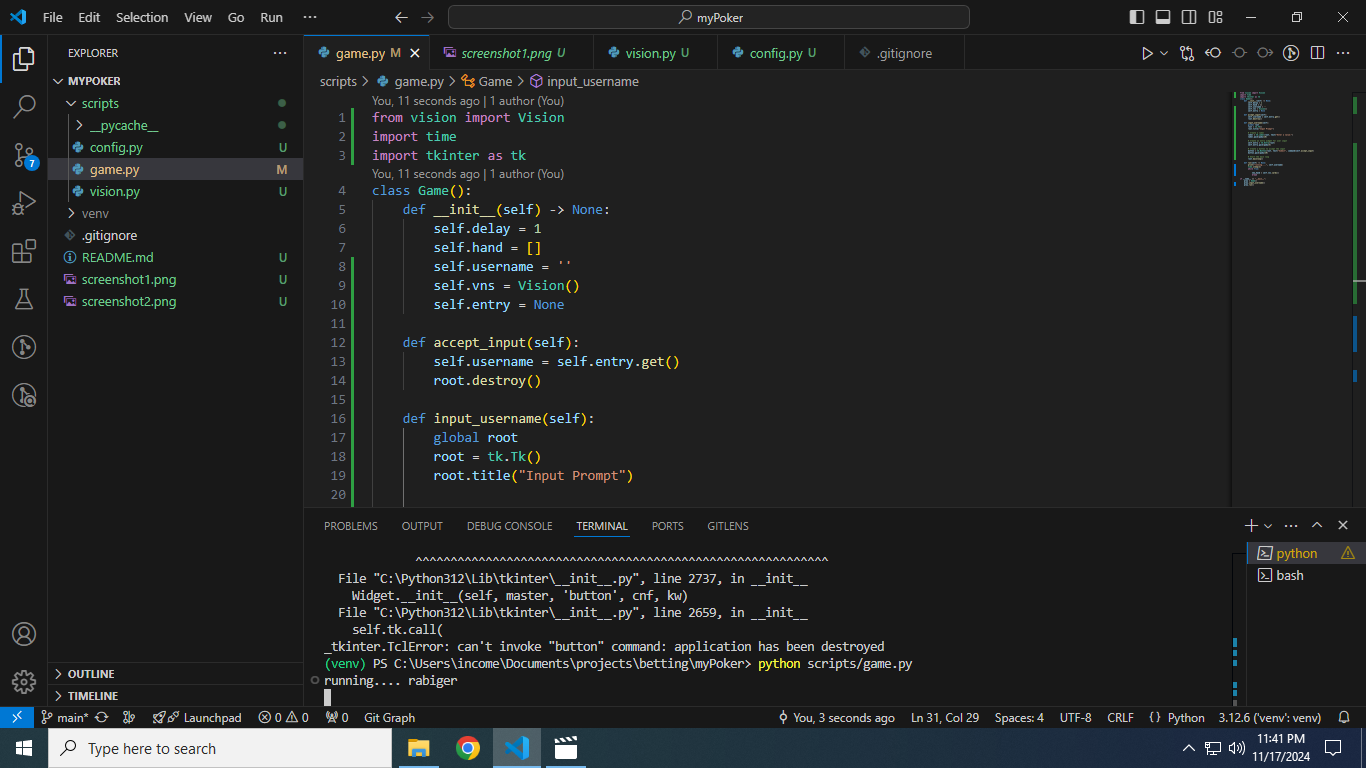
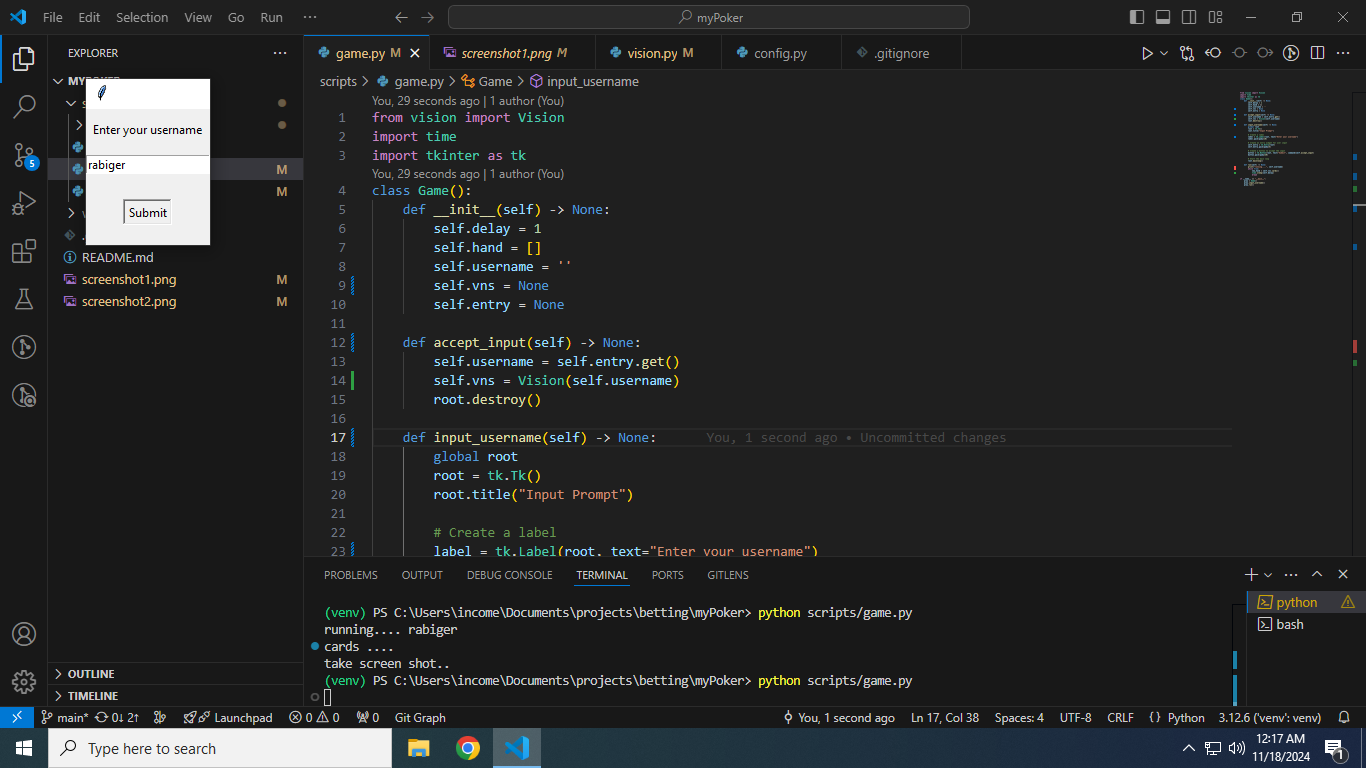
Pass username to the Vision class constructor

diff --git a/scripts/game.py b/scripts/game.py
@@ -6,20 +6,21 @@ class Game():
         self.delay = 1
         self.hand = []
         self.username = ''
-        self.vns = Vision()
+        self.vns = None
         self.entry = None
 
-    def accept_input(self):
+    def accept_input(self) -> None:
         self.username = self.entry.get()
+        self.vns = Vision(self.username)
         root.destroy()
 
-    def input_username(self):
+    def input_username(self) -> None:
         global root
         root = tk.Tk()
         root.title("Input Prompt")
 
         # Create a label
-        label = tk.Label(root, text="Enter a value:")
+        label = tk.Label(root, text="Enter your username")
         label.pack(pady=10)
 
         # Create an entry widget for user input
@@ -35,10 +36,9 @@ class Game():
 
     def run(self) -> None:
         print("running....", self.username)
-        time.sleep(2)
         while True:
-
             new_hand = self.vns.cards()
+            time.sleep(self.delay)
             break
             
 if __name__ == "__main__":

diff --git a/scripts/vision.py b/scripts/vision.py
@@ -3,10 +3,12 @@ import cv2
 import numpy as np
 
 class Vision():
-    def __init__(self):
+    def __init__(self, username):
         self.threshold = 0.65
+        self.username = username
 
     def cards(self):
+        print("cards .... ", self.username)
         gray_card = self.screen_shot()
 
     def screen_shot(self, gray_convert: bool = False):
